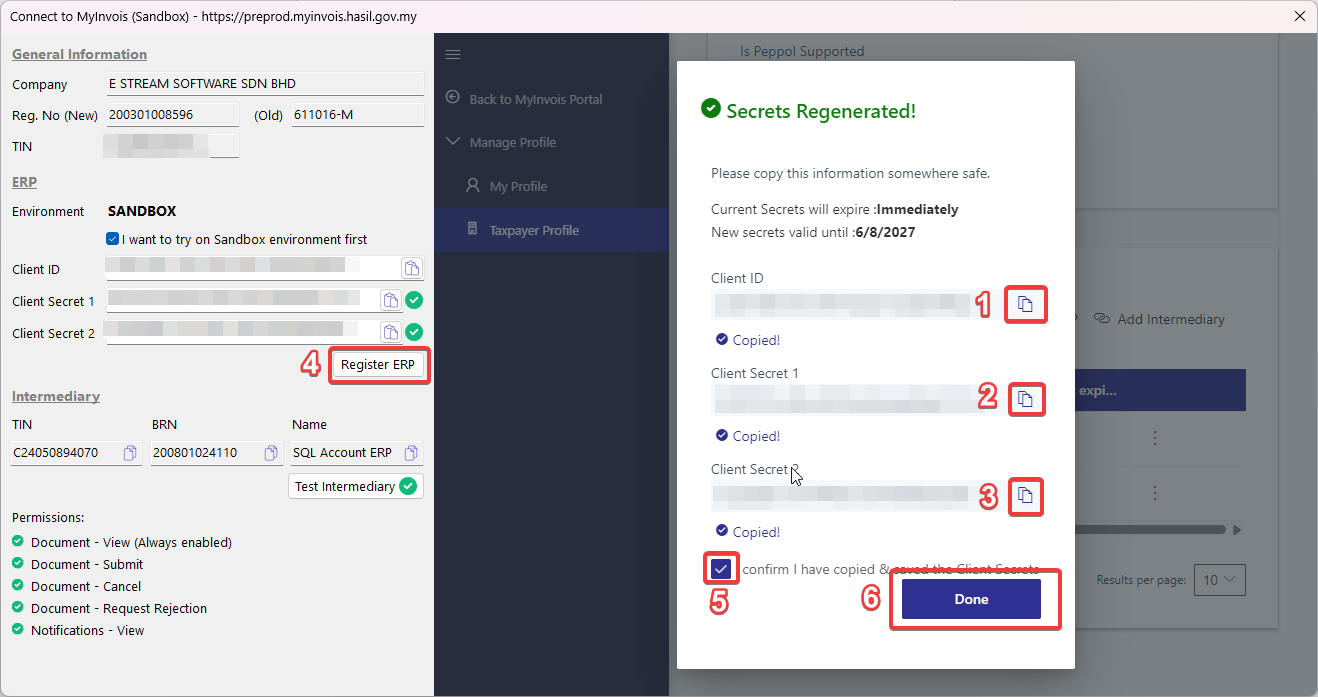
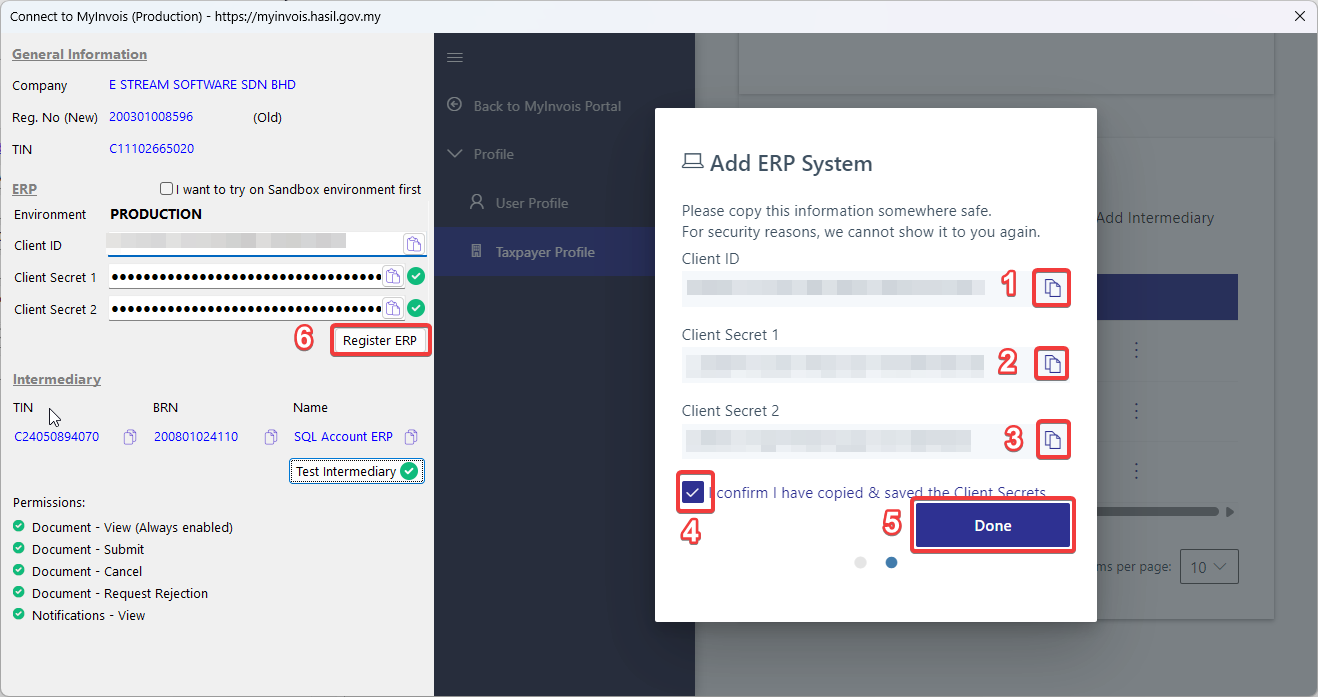
feat: update onboarding guide

diff --git a/docs/usage/myinvois/onboarding.md b/docs/usage/myinvois/onboarding.md
@@ -10,6 +10,8 @@ To streamline the e-invoice submission through SQL Account, you will need to go 
 
 ## Company Profile Setup
 
+### MyInvois Portal Linking
+
 1. Go to **File** > **Company Profile**.
    1. Make sure your company registration number (BRN) is correctly filled in. (click on the magnifying glass to utilize our auto BRN lookup feature)
    2. Make sure the TIN number has been filled in correctly.
@@ -70,3 +72,19 @@ To streamline the e-invoice submission through SQL Account, you will need to go 
 13. Click on the copy button in sequence as shown below and you shall see the client id & secrets are being automatically filled on the left. Click on **Register ERP** and you're done!
 
     ![myinvois-portal-5](../../../static/img/myinvois/onboarding/myinvois-portal-5.png)
+
+### E-Invoice Validation Setup
+
+:::info
+Skip this section if you already setup your Sandbox credentials before.
+:::
+
+After you went live, SQL Account now allows you to validate your E-Invoice through LHDN Sandbox API first. To enjoy this feature, setup your **Sandbox credential** after you had successfully connected to **MyInvois Production**.
+
+1. Go to **File** > **Company Profile** > **MyInvois** > **Connect MyInvois**.
+
+2. Click on **Sandbox** tab.
+
+    ![myinvois-sandbox-validation](../../../static/img/myinvois/onboarding/sandbox-validation-setup.png)
+
+3. Repeat the steps in [previous section](#myinvois-portal-linking) to add **Intermediary** & **ERP** in MyInvois Sandbox environment.
